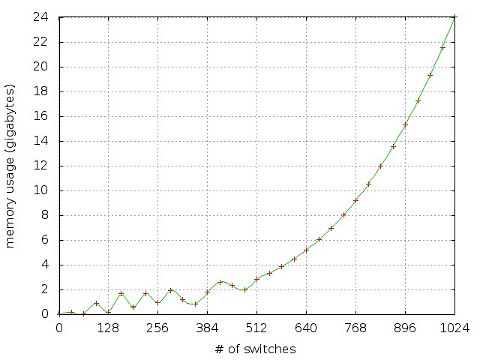
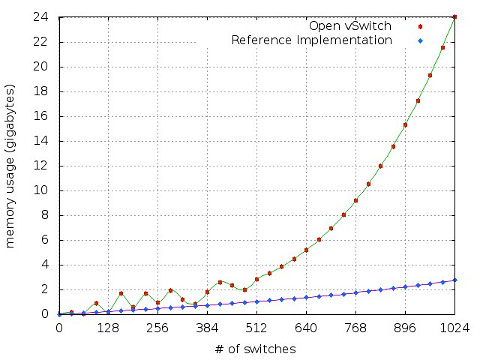
Add software switch results to the mininet benchmark.

diff --git a/content/blog/post/20130419-benchmarking-mininet.md b/content/blog/post/20130419-benchmarking-mininet.md
@@ -21,7 +21,8 @@ Before going into the details with the benchmark, first, let me share with you t
 |OS|Ubuntu 12.10 x86-64|
 |Kernel|3.5.0-26-generic|
 |mininet|2.0.0d2|
-|Open vSwitch|1.4.3|
+|[Open vSwitch](http://www.openvswitch.org/)|1.4.3|
+|[OpenFlow Reference Implementation](http://www.openflow.org/wp/downloads/)|1.0.0|
 
 In order to benchmark mininet, I used a simple bash function as follows.
 
@@ -35,16 +36,20 @@ In order to benchmark mininet, I used a simple bash function as follows.
 
 For varying sizes of `n`, this command lets mininet to
 
-1. create a virtual network composed of `n` serially connected (particularly, [Open vSwitch](http://openvswitch.org/)) switches,
+1. create a virtual network composed of `n` serially connected switches,
 2. where a single host is attached to each switch and
 3. the switches are connected to a central controller.
 
 Put another way, created network will have `2n+1` nodes (a central controller, `n` switches, `n` hosts) and `3n-1` links.
 
-Deployed script measures two things: 1) the memory usage of the server right after starting the mininet, and 2) the time it takes to start and shutdown the mininet. Results are as follows. (See [mininet.dat](mininet.dat) and [plot.gnu](plot.gnu) for the raw results and the used Gnuplot script, respectively.)
+Deployed script measures two things: 1) the memory usage of the server right after starting the mininet, and 2) the time it takes to start and shutdown the mininet. Results are as follows. (See [mininet-ovs.dat](mininet-ovs.dat) and [mininet-ref.dat](mininet-ref.dat) for raw results generated using Open vSwitch and OpenFlow reference implementation, respectively. Employed Gnuplot script [plot.gnu](plot.gnu) is also shared.)
 
 ![Timings](time.jpg)
 
 ![Memory Usage](memory.jpg)
 
-Note that while plotting the memory usage, I subtracted the memory usage of the system at stale state from the results.
+Timing numbers point out that as the number of switches increase, initialization of the whole network exposes a significant runtime overhead, regardless of the switch implementation that is used. That being said, OpenFlow reference implementation consumes a much less amount of memory compared to the Open vSwitch. On the other hand, this advantage of it should be taken with a grain of salt, because Open vSwitch is known to perform much better and supports many standards that are missing in the reference implementation. (For instance, I was once bitten by OpenFlow forwarding LLDP packets across switches, where it shouldn't.)
+
+To sum it up, while mininet is an awesome tool to compose and emulate software-defined networks, it has its own limitations on the size of the network. These basic benchmarks should hopefully give you an idea about mininet's runtime and memory characteristics proportional with the number of switches.
+
+**Note:** Thanks Bob Lantz for [his suggestion](https://mailman.stanford.edu/pipermail/openflow-discuss/2013-April/004477.html) on using the switch distributed with the [OpenFlow reference implementation](http://www.openflow.org/wp/downloads/). 
